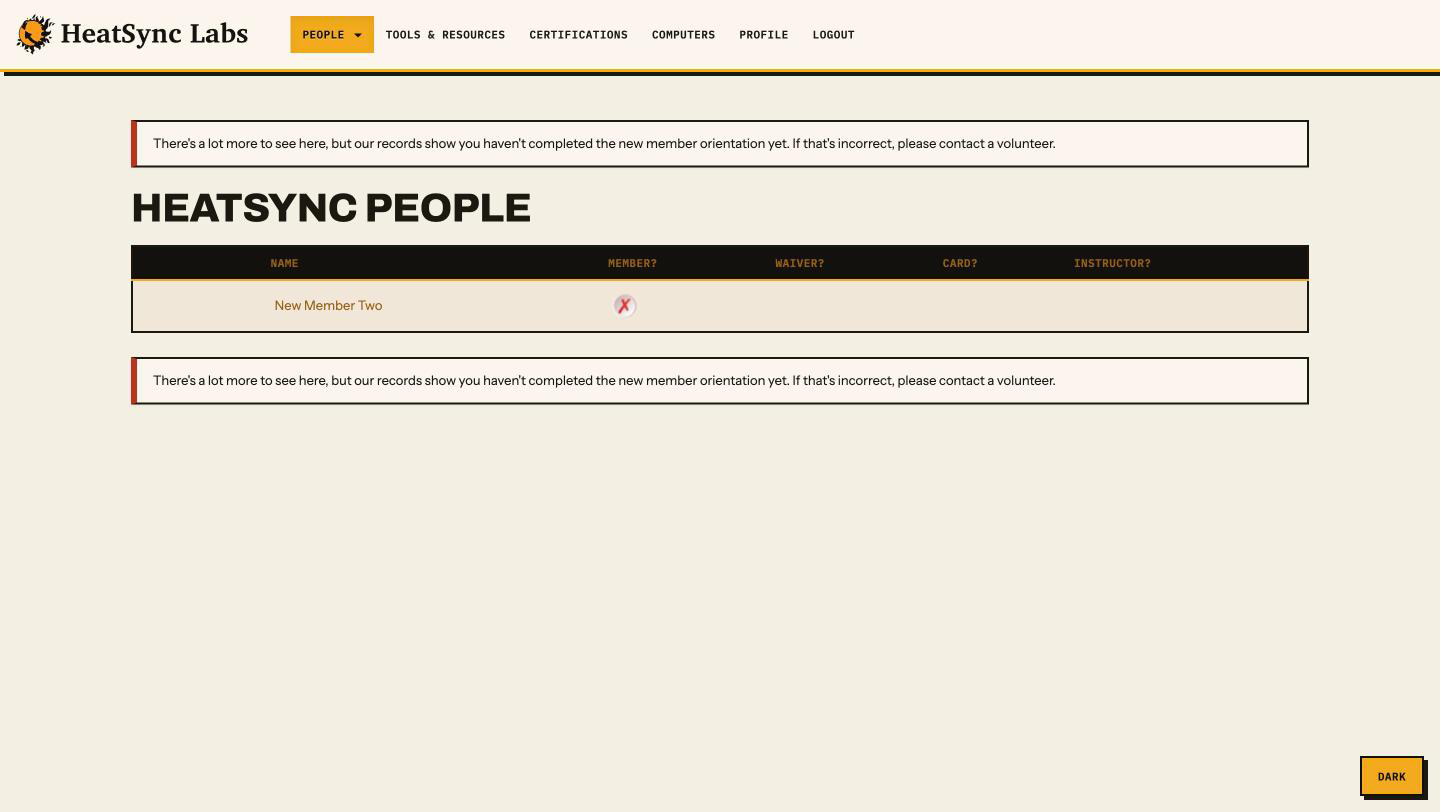
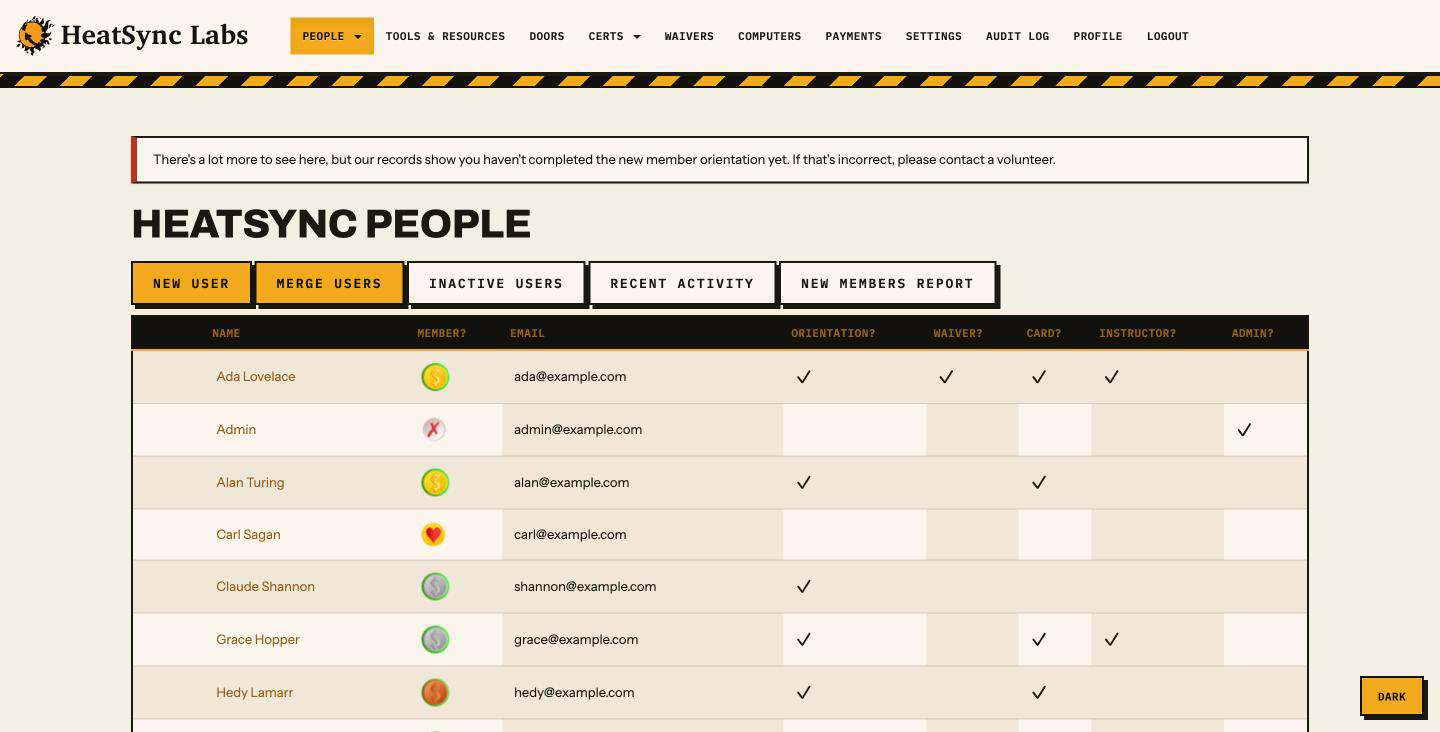
Seed varied sample members for development and refresh the screenshot
- db/seeds/dev_members.rb adds ~14 realistic members (varied levels,
  orientation, cards, instructors, waivers, one hidden). Dev-only and
  idempotent: existing emails are left untouched.
- Update doc/screenshot.png to the populated members list.

diff --git a/db/seeds/dev_members.rb b/db/seeds/dev_members.rb
@@ -1,0 +1,64 @@
+# Development-only sample members so the roster looks populated.
+# Idempotent: existing accounts (matched by email) are left untouched,
+# so re-running never duplicates. Never runs outside development.
+def seed_dev_members!
+  return unless Rails.env.development?
+
+  admin_id = User.find_by(email: "admin@example.com")&.id
+
+  skills  = ["soldering, electronics", "woodworking, CNC", "sewing, textiles",
+             "3D printing", "laser cutting", "welding, metalwork",
+             "programming, embedded", "screen printing"]
+  sources = ["a friend", "a meetup", "the website", "a class", "walk-in", "social media"]
+
+  members = [
+    { name: "Ada Lovelace",      email: "ada@example.com",      level: 100, oriented: true, instructor: true, card: true, waiver: true, pay: true, zip: "85201" },
+    { name: "Grace Hopper",      email: "grace@example.com",    level: 50,  oriented: true, instructor: true, card: true,              pay: true, zip: "85203" },
+    { name: "Nikola Tesla",      email: "nikola@example.com",   level: 100, oriented: true,                   card: true, waiver: true, pay: true, zip: "85281" },
+    { name: "Hedy Lamarr",       email: "hedy@example.com",     level: 25,  oriented: true,                   card: true,              pay: true, zip: "85210" },
+    { name: "Claude Shannon",    email: "shannon@example.com",  level: 50,  oriented: true,                                            pay: true, zip: "85202" },
+    { name: "Rosalind Franklin", email: "rosalind@example.com", level: 25,  oriented: true,                   card: true,              pay: true, zip: "85224" },
+    { name: "Alan Turing",       email: "alan@example.com",     level: 100, oriented: true,                   card: true,              pay: true, zip: "85233" },
+    { name: "Katherine Johnson", email: "katherine@example.com",level: 50,  oriented: true,                                            pay: true, zip: "85204" },
+    { name: "Margaret Hamilton", email: "margaret@example.com", level: 25,                                                             pay: true, zip: "85212" },
+    { name: "Shuri Okoye",       email: "shuri@example.com",    level: 10,  oriented: true,                   card: true,                         zip: "85282" },
+    { name: "Carl Sagan",        email: "carl@example.com",     level: 10,                                                                        zip: "85209" },
+    { name: "Mae Jemison",       email: "mae@example.com",      level: 50,  oriented: true,                               waiver: true, pay: true, zip: "85215" },
+    { name: "Vikram Prakash",    email: "vikram@example.com",   level: 25,  hidden: true,                                                         zip: "85206" },
+    { name: "Lena Soto",         email: "lena@example.com",     level: 0,                                                                         zip: "85225" },
+  ]
+
+  created = 0
+  members.each_with_index do |m, i|
+    next if User.exists?(email: m[:email])
+
+    user = User.new(
+      name:             m[:name],
+      email:            m[:email],
+      password:         "password",
+      password_confirmation: "password",
+      postal_code:      m[:zip],
+      member_level:     m[:level],
+      instructor:       !!m[:instructor],
+      hidden:           !!m[:hidden],
+      current_skills:   skills[i % skills.length],
+      desired_skills:   skills[(i + 3) % skills.length],
+      marketing_source: sources[i % sources.length],
+      orientation:      (m[:oriented] ? (Date.today - (30 + i)) : nil)
+    )
+    user.save!
+    created += 1
+
+    Card.create!(user_id: user.id, card_number: format("DEV%04d", 1000 + i), card_permissions: 1) if m[:card]
+
+    if m[:waiver]
+      first, last = m[:name].split(" ", 2)
+      Contract.create!(user_id: user.id, first_name: first, last_name: last,
+                       signed_at: (Time.now - (40 + i).days), created_by_id: admin_id)
+    end
+
+    Payment.create!(user_id: user.id, date: (Date.today - (i * 3)), amount: m[:level], created_by: admin_id) if m[:pay]
+  end
+
+  puts "Seeded #{created} dev members."
+end

diff --git a/db/seeds.rb b/db/seeds.rb
@@ -1,6 +1,8 @@
 require_relative "seeds/admin.rb"
 require_relative "seeds/defaults.rb"
+require_relative "seeds/dev_members.rb"
 
 initialize_local_admin!
 set_defaults!
+seed_dev_members!
 
